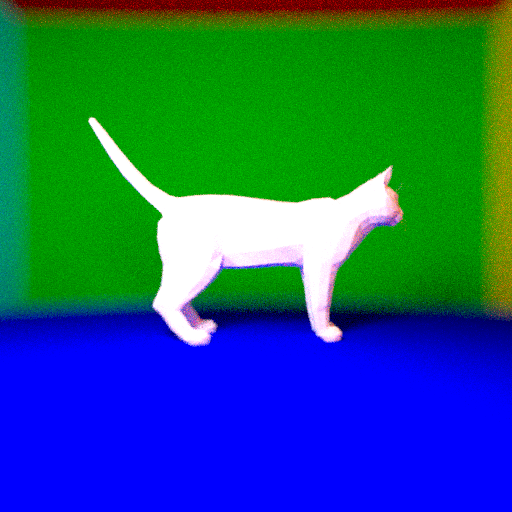
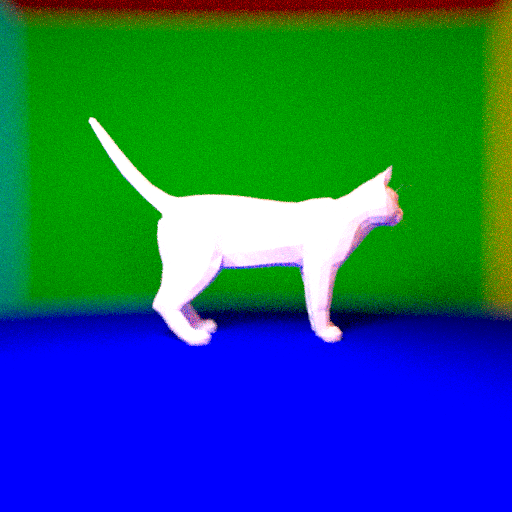
minor optim

diff --git a/Raytracer_Assignement1/classes/obj_reader.cpp b/Raytracer_Assignement1/classes/obj_reader.cpp
@@ -23,12 +23,9 @@ public:
 	Vector compute_barycenter(int index){
 		TriangleIndices triangle = indices[index];
 		Vector A = vertices[triangle.vtxi]; 
-		// A.print_vector();
 		Vector B = vertices[triangle.vtxj]; 
-		// B.print_vector();
 		Vector C = vertices[triangle.vtxk]; 
-		// C.print_vector();
-		return (A+B+C)*(0.3333);
+		return (A+B+C)*(0.3333333);
 	}
 
 	void readOBJ(const char* obj) {
@@ -206,41 +203,6 @@ public:
 		fclose(f);
 
 	}
-
-	// Intersection intersect(Ray r){
-    //     Intersection inter;
-    //     inter.intersects = false;
-    //     double d = INFINITY;
-	// 	Vector O = r.getO(); Vector u = r.getu();
-	// 	for(int i = 0;i<indices.size();i++){
-	// 		TriangleIndices triangle = indices[i];
-	// 		Vector A = vertices[triangle.vtxi]; Vector B = vertices[triangle.vtxj]; Vector C = vertices[triangle.vtxk];
-	// 		Vector e1 = B-A; Vector e2 = C-A; Vector N = cross(e1,e2);
-
-	// 		double denominator = dot(N,u);
-	// 		double Beta = dot(e2,cross(A-O,u))/denominator;
-	// 		double gamma = -dot(e1,cross(A-O,u))/denominator;
-	// 		double alpha = 1 - Beta - gamma;
-	// 		double t = dot(A-O,N)/denominator;
-
-	// 		bool in_triangle = ((0<=alpha) && (alpha<=1)) && 
-	// 						   ((0<=Beta)  && (Beta<=1))  &&
-	// 						   ((0<=gamma) && (gamma<=1));
-
-	// 		if(t<d && t>=0 && in_triangle){
-	// 			d = t;
-	// 			inter.length = t;
-	// 			inter.intersects = true;
-	// 			inter.P = O + t*u;
-	// 			inter.albedo = Vector(1.,1.,1.);
-	// 			inter.id = id;
-	// 			inter.N = N ; inter.N.normalize();
-	// 			inter.incoming_direction = u;
-	// 		}
-
-    //     }
-    //     return inter;
-	// }
 	
 };
 
@@ -283,28 +245,34 @@ class BoundingBox: public Geometry{
 		return this->Bmax - this->Bmin;
 	}
 
-	Intersection intersect(Ray r){
-		Vector O = r.getO(); Vector u = r.getu();
+	Intersection intersect(const Ray& r){
+		Vector O = r.O; Vector u = r.u;
 		//compute tmax
-		double tmax_x = u[0]!=0? (Bmax[0]-O[0])/u[0]:INFINITY;
-		double tmax_y = u[1]!=0? (Bmax[1]-O[1])/u[1]:INFINITY;
-		double tmax_z = u[2]!=0? (Bmax[2]-O[2])/u[2]:INFINITY;
+		double tmax_x = (Bmax[0]-O[0])/u[0];
+		double tmax_y = (Bmax[1]-O[1])/u[1];
+		double tmax_z = (Bmax[2]-O[2])/u[2];
 		//compute tmin
-		double tmin_x = u[0]!=0? (Bmin[0]-O[0])/u[0]:0;
-		double tmin_y = u[1]!=0? (Bmin[1]-O[1])/u[1]:0;
-		double tmin_z = u[2]!=0? (Bmin[2]-O[2])/u[2]:0;
-		//compute t0 and t1
-		double t0_x = std::min(tmin_x,tmax_x); double t1_x = std::max(tmin_x,tmax_x);
-		double t0_y = std::min(tmin_y,tmax_y); double t1_y = std::max(tmin_y,tmax_y);
-		double t0_z = std::min(tmin_z,tmax_z); double t1_z = std::max(tmin_z,tmax_z);
+		double tmin_x = (Bmin[0]-O[0])/u[0];
+		double tmin_y = (Bmin[1]-O[1])/u[1];
+		double tmin_z = (Bmin[2]-O[2])/u[2];
+
+		// compute t0 and t1
+		// double t0_x = std::min(tmin_x,tmax_x); double t1_x = std::max(tmin_x,tmax_x);
+		// double t0_y = std::min(tmin_y,tmax_y); double t1_y = std::max(tmin_y,tmax_y);
+		// double t0_z = std::min(tmin_z,tmax_z); double t1_z = std::max(tmin_z,tmax_z);
+
+		double t0_x,t0_y,t0_z,t1_x,t1_y,t1_z;
+		if(tmin_x<tmax_x) {t0_x = tmin_x;t1_x=tmax_x;} else{t0_x = tmax_x;t1_x=tmin_x;}
+		if(tmin_y<tmax_y) {t0_y = tmin_y;t1_y=tmax_y;} else{t0_y = tmax_y;t1_y=tmin_y;}
+		if(tmin_z<tmax_z) {t0_z = tmin_z;t1_z=tmax_z;} else{t0_z= tmax_z;t1_z=tmin_z;}
 
 		Intersection inter;
 		inter.intersects = false;
 		//if it intersects with the bounding box we check
-		if (std::min({t1_x,t1_y,t1_z})>std::max({t0_x,t0_y,t0_z})){
-			// inter = Mesh->intersect(r);
+		double l = std::max({t0_x,t0_y,t0_z});
+		if (std::min({t1_x,t1_y,t1_z})>l){
 			inter.intersects = true;
-			inter.length = std::max({t0_x,t0_y,t0_z});
+			inter.length = l;
             inter.id = this->id;
 		}
 		return inter;
@@ -328,46 +296,53 @@ class BVH: public Geometry{
 		this->value = new BoundingBox(this->Mesh,this->start,this->end);
 		compute_BVH();
 	}
-	Intersection intersect_with_mesh(Ray r,int start,int end){
+	Intersection intersect_with_mesh(const Ray& r,int start,int end){
 		Intersection inter;
         inter.intersects = false;
         double d = INFINITY;
-		Vector O = r.getO(); Vector u = r.getu();
+		Vector O = r.O; Vector u = r.u;
+		bool in_triangle;
+		Vector A,B,C,e1,e2,N,cros;
+		double denominator,denominator_inv,Beta,gamma,alpha,t;
+
 		for(int i = start;i<end;i++){
 			TriangleIndices triangle = Mesh->indices[i];
-			Vector A = Mesh->vertices[triangle.vtxi]; 
-			Vector B = Mesh->vertices[triangle.vtxj]; 
-			Vector C = Mesh->vertices[triangle.vtxk];
-			Vector e1 = B-A; Vector e2 = C-A; Vector N = cross(e1,e2);
+			A = Mesh->vertices[triangle.vtxi]; 
+			B = Mesh->vertices[triangle.vtxj]; 
+			C = Mesh->vertices[triangle.vtxk];
+			e1 = B-A; e2 = C-A; N = cross(e1,e2);
 
-			double denominator = dot(N,u);
+			denominator = dot(N,u);
 			if(denominator){
-			double Beta = dot(e2,cross(A-O,u))/denominator;
-			double gamma = -dot(e1,cross(A-O,u))/denominator;
-			double alpha = 1 - Beta - gamma;
-			double t = dot(A-O,N)/denominator;
-
-			bool in_triangle = ((0<=alpha) && (alpha<=1)) && 
-							   ((0<=Beta)  && (Beta<=1))  &&
-							   ((0<=gamma) && (gamma<=1));
-
-			if(t<d && t>=0 && in_triangle){
-				d = t;
-				inter.length = t;
-				inter.intersects = true;
-				inter.P = O + t*u;
-				inter.albedo = Vector(1.,1.,1.);
-				inter.id = this->id;
-				inter.N = N ; inter.N.normalize();
-				inter.incoming_direction = u;
-			}
+				cros = cross(A-O,u);
+                denominator_inv = 1/denominator;
+                Beta = dot(e2,cros)*denominator_inv;
+                gamma = -dot(e1,cros)*denominator_inv;
+                alpha = 1 - Beta - gamma;
+                t = dot(A-O,N)*denominator_inv;
+                if(t<d && t>=0){
+					in_triangle = ((0<=alpha) && (alpha<=1)) &&
+									   ((0<=Beta)  && (Beta<=1))  &&
+									   ((0<=gamma) && (gamma<=1));
+					if(in_triangle){
+						d = t;
+						inter.length = t;
+						inter.intersects = true;
+						inter.P = O + t*u;
+						inter.albedo = Vector(1.,1.,1.);
+						inter.id = this->id;
+						inter.N = N ;
+						inter.incoming_direction = u;
+					}
+                }
 			}
 
         }
+        if(inter.intersects) inter.N.normalize();
         return inter;
 	}
 
-	Intersection intersect(Ray r){
+	Intersection intersect(const Ray& r){
 		Intersection inter;
 		inter.intersects = false;
 		if(!this->value->intersect(r).intersects) return inter;

diff --git a/Raytracer_Assignement1/classes/vector.cpp b/Raytracer_Assignement1/classes/vector.cpp
@@ -123,26 +123,29 @@ Vector cross(const Vector& a, const Vector& b) {
     }
 
 Vector random_cos(const Vector& N){
-    
-    Vector T1(N[0],N[1],N[2]);
-    double min = INFINITY;double argmin = -1;
-    for (int i=0;i<3;i++){
-        if(abs(T1[i])<min){
-            min = T1[i];
+    double min = N[0];double argmin = 0;
+    for (int i=1;i<3;i++){
+        if(abs(N[i])<min){
+            min = N[i];
             argmin = i;
         }
     }
+    Vector T1;
     if(argmin==0) T1 = Vector(0,N[2],-N[1]);
     else if(argmin==1) T1 = Vector(-N[2],0,N[0]);
     else if(argmin==2) T1 = Vector(-N[1],N[0],0);
+
+    //Makes it a bit faster to comment it but colors change a little bit
     T1.normalize();
 
     //Use Box-Muller formula
     double r1 = uniform (engine) ;
     double r2 = uniform (engine) ;
 
-    double x = cos(2*M_PI*r1) * sqrt(1-r2);
-    double y = sin(2*M_PI*r1) * sqrt(1-r2);
+    double c = sqrt(1-r2);
+    double c2 = 2*M_PI*r1;
+    double x = cos(c2) * c;
+    double y = sin(c2) * c;
     double z = sqrt(r2);
 
     Vector T2 = cross(T1,N);

diff --git a/Raytracer_Assignement1/classes/sphere.cpp b/Raytracer_Assignement1/classes/sphere.cpp
@@ -14,12 +14,12 @@ public:
         this->motion = m;
         this->R = r;
         };
-    Intersection intersect(Ray r){
+    Intersection intersect(const Ray& r){
         //treat motion
-        Vector moved_C = this->C+ r.get_time() * motion.speed; //we can do more complex stuff here
+        Vector moved_C = this->C+ r.t * motion.speed; //we can do more complex stuff here
         //to put like before just replace by C
-        Vector u = r.getu();
-        Vector O = r.getO();
+        Vector u = r.u;
+        Vector O = r.O;
         double t = dot(u,moved_C-O);
         double delta = square(t) - ( (O-moved_C).norm_squared() - square(R));
 

diff --git a/Raytracer_Assignement1/classes/ray.cpp b/Raytracer_Assignement1/classes/ray.cpp
@@ -2,13 +2,9 @@
 #include "vector.cpp"
 class Ray {
 public:
-    explicit Ray(Vector v1, Vector v2,double t){ 
-    O = v1; u = v2; u.normalize();time = t;
+    explicit Ray(Vector v1, Vector v2,double _t){ 
+    this->O = v1; this->u = v2; u.normalize();this->t = t;
     };
-    Vector getO(){ return O;}
-    Vector getu(){ return u;}
-    double get_time(){return time;}
-private :
-    Vector O; Vector u; double time; 
+    Vector O; Vector u; double t; 
 };
 

diff --git a/Raytracer_Assignement1/classes/scene.cpp b/Raytracer_Assignement1/classes/scene.cpp
@@ -88,7 +88,7 @@ Scene::Scene(){
     //Mr. Cat
     TriangleMesh* cat;
     cat = new TriangleMesh;
-    const char* file_name = "/Users/Diego/Documents/SEM6/CSE306/classes/cat/cat.obj"; 
+    const char* file_name = "/Users/Diego/Documents/SEM6/CSE306/Raytracer_Assignement1/classes/cat/cat.obj"; 
     // cat->motion = trivial_motion;
     cat->readOBJ(file_name); 
     for (int i = 0; i < int(cat->vertices.size()); i++) {

diff --git a/Raytracer_Assignement1/classes/geometry.hpp b/Raytracer_Assignement1/classes/geometry.hpp
@@ -7,5 +7,5 @@ public:
     bool mirror = false;
     bool light = false; 
     Motion motion;
-    virtual Intersection intersect(Ray r) = 0;
+    virtual Intersection intersect(const Ray& r) = 0;
 };
